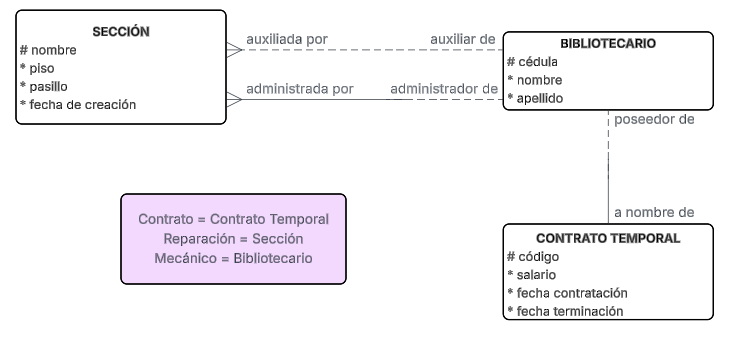
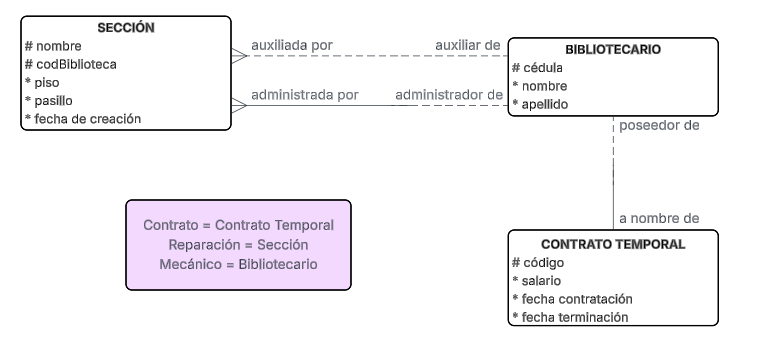
a

Changed region(s): [[0.0, 0.0292, 0.9891, 0.379], [0.1499, 0.5539, 0.4796, 0.8455], [0.6594, 0.5831, 0.9891, 0.9329]]

diff --git a/consultas/consulta1.php b/consultas/consulta1.php
@@ -6,10 +6,17 @@ include "../includes/header.php";
 <h1 class="mt-3">Consulta 1</h1>
 
 <p class="mt-3">
-    El primer botón debe mostrar los datos de las tres reparaciones de mayor valor
+    <strong> El primer botón debe mostrar los datos de las tres reparaciones de mayor valor
     que no tienen mecánico ejecutor (en caso de empates, usted decide como
     proceder). Se debe mostrar para cada una de estas tres reparaciones los datos
-    correspondientes del mecánico receptor.
+    correspondientes del mecánico receptor. </strong>
+</p>
+
+<p class="mt-3y">
+    El primer botón debe mostrar los datos de las tres secciones de mayor piso
+    que no tienen bibliotecario auxiliar (en caso de empates, usted decide como
+    proceder). Se debe mostrar para cada una de estas tres secciones los datos
+    correspondientes del bibliotecario administrador.
 </p>
 
 <?php
@@ -17,9 +24,27 @@ include "../includes/header.php";
 require('../config/conexion.php');
 
 // Query SQL a la BD -> Crearla acá (No está completada, cambiarla a su contexto y a su analogía)
-$query = "SELECT cedula, nombre FROM cliente";
-
-// Ejecutar la consulta
+$query = "SELECT 
+        s.codBiblioteca, 
+        s.nombre AS nombreseccion, 
+        s.piso, 
+        s.pasillo, 
+        s.fechacreacion, 
+        b.cedula, 
+        b.nombre AS nombrebibliotecario, 
+        b.apellido, 
+        b.contratoid 
+        FROM seccion AS s INNER JOIN bibliotecario AS b 
+        ON s.adminid = b.cedula
+        WHERE s.auxiliarid IS NULL 
+        AND (
+            SELECT COUNT(*) 
+            FROM seccion AS s2 
+            WHERE s2.auxiliarid IS NULL
+                AND s2.piso > s.piso
+        ) <= 3
+        ORDER BY s.piso DESC";
+        
 $resultadoC1 = mysqli_query($conn, $query) or die(mysqli_error($conn));
 
 mysqli_close($conn);
@@ -38,8 +63,15 @@ if($resultadoC1 and $resultadoC1->num_rows > 0):
         <!-- Títulos de la tabla, cambiarlos -->
         <thead class="table-dark">
             <tr>
+                <th scope="col" class="text-center">Código de Biblioteca</th>
+                <th scope="col" class="text-center">Nombre de Sección</th>
+                <th scope="col" class="text-center">Piso</th>
+                <th scope="col" class="text-center">Pasillo</th>
+                <th scope="col" class="text-center">Fecha de Creación</th>
                 <th scope="col" class="text-center">Cédula</th>
                 <th scope="col" class="text-center">Nombre</th>
+                <th scope="col" class="text-center">Apellido</th>
+                <th scope="col" class="text-center">ID Contrato</th>
             </tr>
         </thead>
 
@@ -53,8 +85,15 @@ if($resultadoC1 and $resultadoC1->num_rows > 0):
             <!-- Fila que se generará -->
             <tr>
                 <!-- Cada una de las columnas, con su valor correspondiente -->
+                <td class="text-center"><?= $fila["codBiblioteca"]; ?></td>
+                <td class="text-center"><?= $fila["nombreseccion"]; ?></td>
+                <td class="text-center"><?= $fila["piso"]; ?></td>
+                <td class="text-center"><?= $fila["pasillo"]; ?></td>
+                <td class="text-center"><?= $fila["fechacreacion"]; ?></td>
                 <td class="text-center"><?= $fila["cedula"]; ?></td>
-                <td class="text-center"><?= $fila["nombre"]; ?></td>
+                <td class="text-center"><?= $fila["nombrebibliotecario"]; ?></td>
+                <td class="text-center"><?= $fila["apellido"]; ?></td>
+                <td class="text-center"><?= $fila["contratoid"]; ?></td>
             </tr>
 
             <?php

diff --git a/busqueda/busqueda1.php b/busqueda/busqueda1.php
@@ -6,10 +6,17 @@ include "../includes/header.php";
 <h1 class="mt-3">Búsqueda 1</h1>
 
 <p class="mt-3">
-    El código de un contrato. Se debe mostrar todas las reparaciones ejecutadas
-    por el mecánico asociado a dicho contrato pero siempre y cuando la fecha de dichas
-    reparaciones esté por fuera del intervalo de fechas de dicho contrato. (Esto significa que
-    fueron reparaciones ejecutadas por el mecánico cuando no tenía contrato).
+    <strong> El código de un contrato. Se debe mostrar todas las reparaciones ejecutadas por el 
+    mecánico asociado a dicho contrato pero siempre y cuando la fecha de dichas reparaciones 
+    esté por fuera del intervalo de fechas de dicho contrato. (Esto significa que fueron reparaciones 
+    ejecutadas por el mecánico cuando no tenía contrato). </strong>
+</p>
+
+<p class="mt-3y">
+    El código de un contrato. Se debe mostrar todas las secciones auxiliadas por el 
+    bibliotecario asociado a dicho contrato pero siempre y cuando la fecha de dichas secciones 
+    esté por fuera del intervalo de fechas de dicho contrato. (Esto significa que fueron secciones 
+    auxiliadas por el bibliotecario cuando no tenía contrato).
 </p>
 
 <!-- FORMULARIO. Cambiar los campos de acuerdo a su trabajo -->
@@ -29,8 +36,8 @@ include "../includes/header.php";
         </div>
 
         <div class="mb-3">
-            <label for="numero" class="form-label">Número</label>
-            <input type="number" class="form-control" id="numero" name="numero" required>
+            <label for="codigocontrato" class="form-label">Código de contrato</label>
+            <input type="number" class="form-control" id="codigocontrato" name="codigocontrato" required>
         </div>
 
         <button type="submit" class="btn btn-primary">Buscar</button>
@@ -48,10 +55,19 @@ if ($_SERVER['REQUEST_METHOD'] === 'POST'):
 
     $fecha1 = $_POST["fecha1"];
     $fecha2 = $_POST["fecha2"];
-    $numero = $_POST["numero"];
+    $codigocontrato = $_POST["codigocontrato"];
 
     // Query SQL a la BD -> Crearla acá (No está completada, cambiarla a su contexto y a su analogía)
-    $query = "SELECT cedula, celular FROM cliente";
+    $query = `SELECT s.*
+                FROM contratotemporal AS ct
+                INNER JOIN bibliotecario AS b ON b.contratoid = ct.codigo
+                INNER JOIN seccion AS s ON s.auxiliarid = b.cedula
+                WHERE ct.codigo = '$codigocontrato'
+                    AND s.fechacreacion NOT BETWEEN '$fecha1' AND '$fecha2'
+                    AND (
+                        s.fechacreacion < ct.fechacontratacion OR
+                        s.fechacreacion > ct.fechaterminacion
+                )`;
 
     // Ejecutar la consulta
     $resultadoB1 = mysqli_query($conn, $query) or die(mysqli_error($conn));

diff --git a/consultas/consulta2.php b/consultas/consulta2.php
@@ -6,9 +6,16 @@ include "../includes/header.php";
 <h1 class="mt-3">Consulta 2</h1>
 
 <p class="mt-3">
-    El segundo botón debe mostrar los datos de los mecánicos que tienen contrato
-    asociado, que han ejecutado al menos dos ( 2 reparaciones) reparaciones y que
-    nunca han sido receptores.
+    <strong> El segundo botón debe mostrar los datos de los mecánicos 
+        que tienen contrato asociado, que han ejecutado al menos dos
+        (>= 2 reparaciones) reparaciones y que nunca han sido receptores. 
+    </strong>
+</p>
+
+<p class="mt-3y">
+    El segundo botón debe mostrar los datos de los bibliotecarios 
+    que tienen contrato asociado, que han auxiliado al menos dos
+    (>= 2 secciones) secciones y que nunca han sido administradores. 
 </p>
 
 <?php
@@ -16,7 +23,16 @@ include "../includes/header.php";
 require('../config/conexion.php');
 
 // Query SQL a la BD -> Crearla acá (No está completada, cambiarla a su contexto y a su analogía)
-$query = "SELECT codigo, valor FROM proyecto";
+$query = "SELECT b.*
+            FROM bibliotecario AS b
+            JOIN seccion AS s ON b.cedula = s.auxiliarid
+            WHERE b.contratoid IS NOT NULL
+            AND b.cedula NOT IN (
+                SELECT DISTINCT adminid FROM seccion
+            )
+            GROUP BY b.cedula, b.nombre, b.apellido, b.contratoid
+            HAVING COUNT(*) >= 2";
+
 
 // Ejecutar la consulta
 $resultadoC2 = mysqli_query($conn, $query) or die(mysqli_error($conn));
@@ -39,6 +55,8 @@ if($resultadoC2 and $resultadoC2->num_rows > 0):
             <tr>
                 <th scope="col" class="text-center">Cédula</th>
                 <th scope="col" class="text-center">Nombre</th>
+                <th scope="col" class="text-center">Apellido</th>
+                <th scope="col" class="text-center">ID Contrato</th>
             </tr>
         </thead>
 
@@ -54,6 +72,8 @@ if($resultadoC2 and $resultadoC2->num_rows > 0):
                 <!-- Cada una de las columnas, con su valor correspondiente -->
                 <td class="text-center"><?= $fila["cedula"]; ?></td>
                 <td class="text-center"><?= $fila["nombre"]; ?></td>
+                <td class="text-center"><?= $fila["apellido"]; ?></td>
+                <td class="text-center"><?= $fila["contratoid"]; ?></td>
             </tr>
 
             <?php
